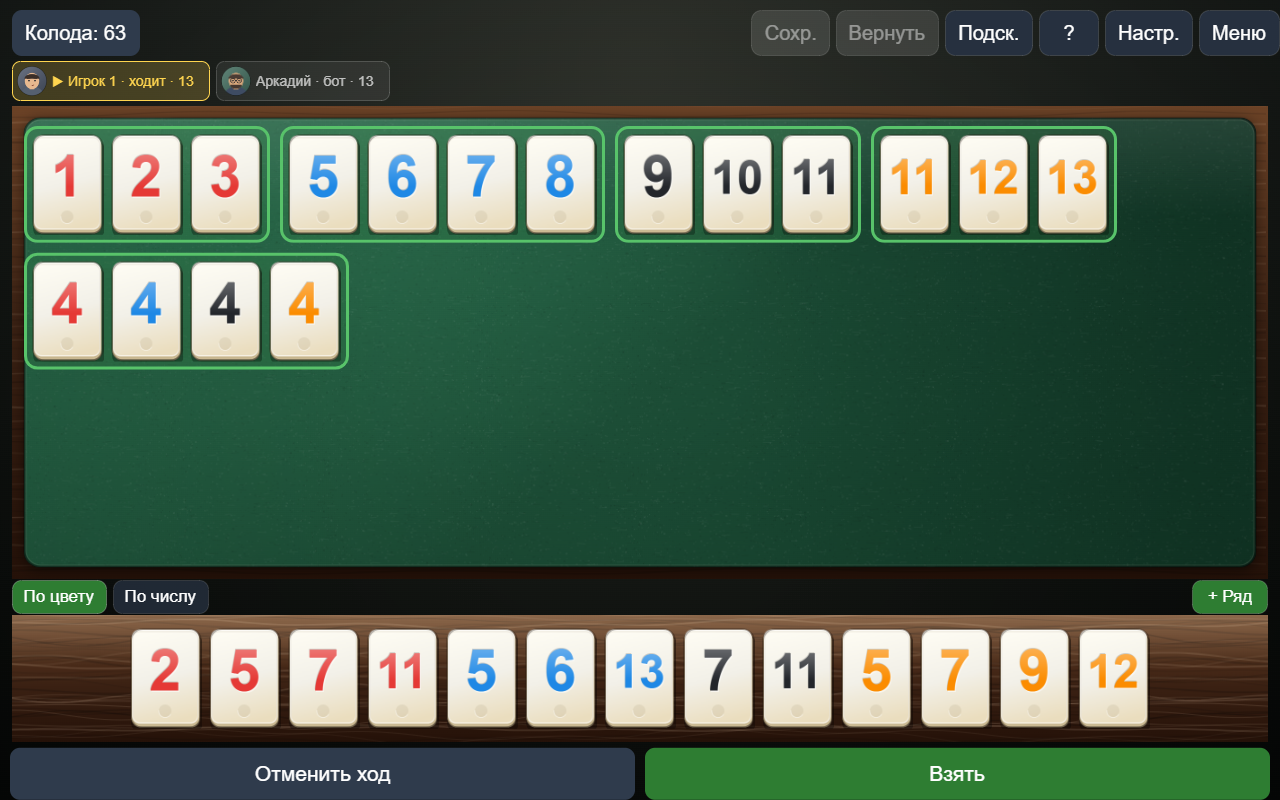
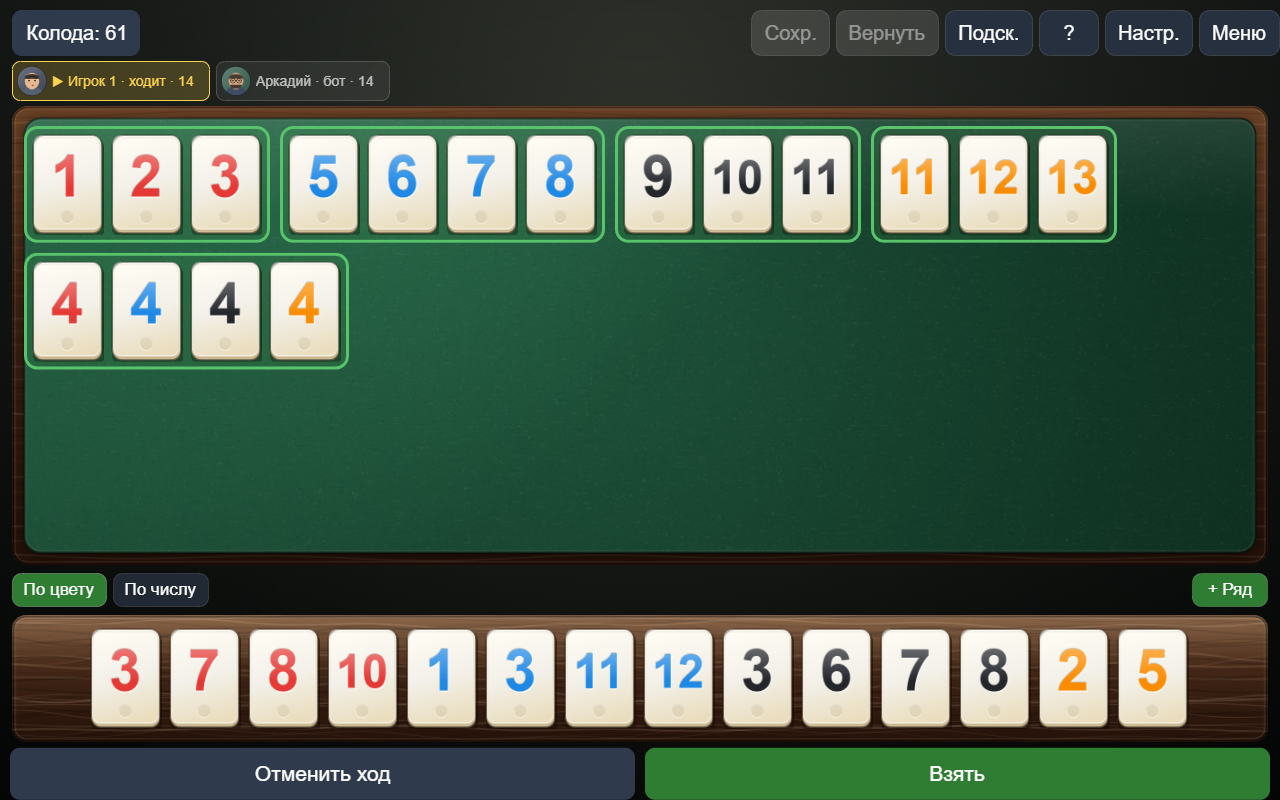
Round wood surfaces and pad hand toolbar
- table mat and hand plank have rounded outer corners with a bevel
- sorting/new-row buttons get vertical breathing room
- hide the chips scrollbar line over the table

diff --git a/babylon/src/ui2/skin_art.ts b/babylon/src/ui2/skin_art.ts
@@ -189,6 +189,11 @@ export function tableMatTexture(theme: TableTheme, w: number, h: number, inset =
   const hit = cache.get(key);
   if (hit) return hit;
   const { c, ctx } = mk(W, H);
+  // Скруглённые углы всего стола: вне радиуса остаётся прозрачный фон.
+  const outerR = Math.max(10, Math.min(24, Math.round(Math.min(W, H) * 0.035)));
+  ctx.clearRect(0, 0, W, H);
+  roundRect(ctx, 0, 0, W, H, outerR);
+  ctx.clip();
 
   // Дерево по всему периметру.
   const wood = ctx.createLinearGradient(0, 0, 0, H);
@@ -249,19 +254,35 @@ export function tableMatTexture(theme: TableTheme, w: number, h: number, inset =
   ctx.lineWidth = 1;
   ctx.stroke();
 
+  // Фаска по внешнему скруглённому краю деревянной рамы.
+  roundRect(ctx, 1.5, 1.5, W - 3, H - 3, Math.max(1, outerR - 2));
+  ctx.strokeStyle = 'rgba(0,0,0,0.35)';
+  ctx.lineWidth = 2;
+  ctx.stroke();
+  roundRect(ctx, 3, 3, W - 6, H - 6, Math.max(1, outerR - 3));
+  ctx.strokeStyle = 'rgba(255,236,205,0.12)';
+  ctx.lineWidth = 1;
+  ctx.stroke();
+
   const url = c.toDataURL('image/png');
   cache.set(key, url);
   return url;
 }
 
 // ===== дерево =====
-export function woodTexture(theme: TableTheme, w: number, h: number, vertical = false): string {
+export function woodTexture(theme: TableTheme, w: number, h: number, vertical = false, corner = 0): string {
   const W = Math.max(32, Math.min(1200, Math.round(w / 16) * 16));
   const H = Math.max(32, Math.min(1200, Math.round(h / 16) * 16));
-  const key = `wood:${theme.id}:${W}x${H}:${vertical ? 'v' : 'h'}`;
+  const rad = Math.max(0, Math.min(Math.round(corner), Math.floor(Math.min(W, H) / 2)));
+  const key = `wood:${theme.id}:${W}x${H}:${vertical ? 'v' : 'h'}:${rad}`;
   const hit = cache.get(key);
   if (hit) return hit;
   const { c, ctx } = mk(W, H);
+  if (rad > 0) {
+    // Скруглённая доска: всё, что вне радиуса, остаётся прозрачным.
+    roundRect(ctx, 0, 0, W, H, rad);
+    ctx.clip();
+  }
   const len = vertical ? H : W;
   const thick = vertical ? W : H;
   const g = vertical
@@ -304,6 +325,18 @@ export function woodTexture(theme: TableTheme, w: number, h: number, vertical = 
   edge.addColorStop(1, 'rgba(255,236,205,0)');
   ctx.fillStyle = edge;
   ctx.fillRect(0, 0, W, H);
+
+  if (rad > 0) {
+    // Мягкая фаска по скруглённому краю доски.
+    roundRect(ctx, 1.5, 1.5, W - 3, H - 3, Math.max(1, rad - 2));
+    ctx.strokeStyle = 'rgba(0,0,0,0.35)';
+    ctx.lineWidth = 2;
+    ctx.stroke();
+    roundRect(ctx, 3, 3, W - 6, H - 6, Math.max(1, rad - 3));
+    ctx.strokeStyle = 'rgba(255,236,205,0.14)';
+    ctx.lineWidth = 1;
+    ctx.stroke();
+  }
 
   const url = c.toDataURL('image/png');
   cache.set(key, url);

diff --git a/babylon/src/ui2/offline_game.ts b/babylon/src/ui2/offline_game.ts
@@ -719,12 +719,9 @@ export class OfflineGame {
     scroll.height = px(50);
     scroll.paddingLeft = px(SIDE_PAD);
     scroll.paddingRight = px(SIDE_PAD);
-    // Тонкая полоска прокрутки (4px) вместо стандартной 20px.
-    scroll.barSize = 4;
-    // Горизонтальная полоса чипов рисовала бы белую линию на всю ширину
-    // над столом; свайп работает и без неё.
-    (scroll as unknown as { _horizontalBar: Control })._horizontalBar.isVisible = false;
-    (scroll as unknown as { _forceHorizontalBar: boolean })._forceHorizontalBar = false;
+    // Полоса прокрутки чипов не нужна: на телефоне она рисовала светлую
+    // линию на всю ширину над столом. Свайп работает и без неё.
+    scroll.barSize = 0;
     col.addControl(scroll);
     enableSmoothScroll(scroll, 'horizontal');
     this.timerOverflowRow = new Container('timerOverflowRow');
@@ -751,7 +748,7 @@ export class OfflineGame {
   // Фиксированная вертикаль: верхний отступ колонки, верхняя панель,
   // ряд игроков и нижние кнопки.
   private fixedVSpace(): number {
-    return TOP_PAD + 46 + 50 + 36 + this.timerOverflowHeight + 58;
+    return TOP_PAD + 46 + 50 + 50 + this.timerOverflowHeight + 58;
   }
 
   // Минимальная высота стола: на очень низких окнах стол ужимается,
@@ -890,7 +887,7 @@ export class OfflineGame {
     const barW = Math.max(180, viewWidth() - SIDE_PAD * 2);
     this.handToolbar = new Container('handToolbar');
     this.handToolbar.width = px(barW);
-    this.handToolbar.height = px(36);
+    this.handToolbar.height = px(50);
     this.handToolbar.horizontalAlignment = Control.HORIZONTAL_ALIGNMENT_CENTER;
     col.addControl(this.handToolbar);
 
@@ -937,7 +934,7 @@ export class OfflineGame {
     // Деревянный лоток без тёмно-зелёной выемки: фишки стоят прямо на доске.
     this.handWood = new GuiImage(
       'handWood',
-      woodTexture(tableTheme(), Math.max(180, viewWidth() - SIDE_PAD * 2), ts.y + 26),
+      woodTexture(tableTheme(), Math.max(180, viewWidth() - SIDE_PAD * 2), ts.y + 26, false, 14),
     );
     this.handWood.width = '100%';
     this.handWood.height = '100%';
@@ -961,7 +958,7 @@ export class OfflineGame {
     const w = this.handPanel.widthInPixels;
     const h = this.handPanel.heightInPixels;
     if (w <= 0 || h <= 0) return;
-    this.handWood.source = woodTexture(tableTheme(), w, h);
+    this.handWood.source = woodTexture(tableTheme(), w, h, false, 14);
   }
 
   private bottomButtonWidth(): number {
